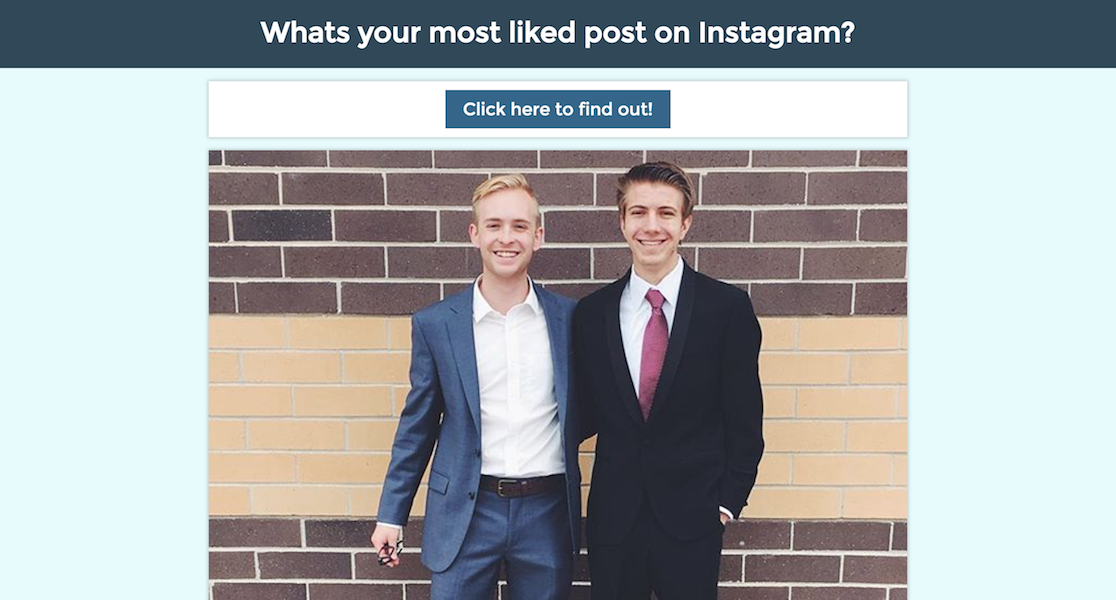
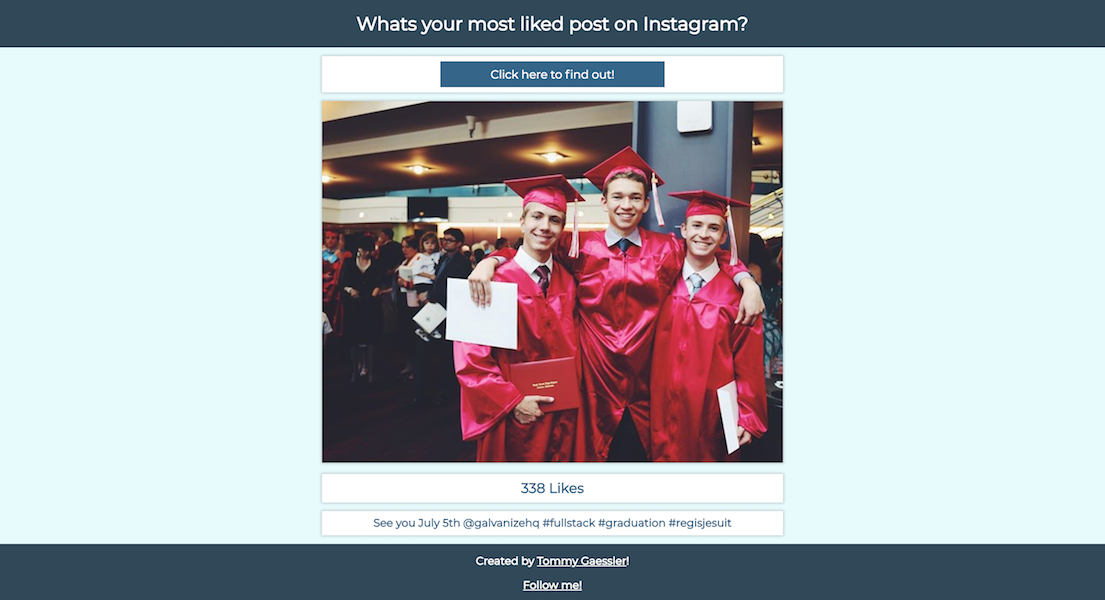
updated trip charge screenshots and added most liked

diff --git a/src/app/app.component.html b/src/app/app.component.html
@@ -12,8 +12,8 @@
     <div class="collapse navbar-collapse" id="navbar-collapse-1">
       <ul class="nav navbar-nav navbar-right">
         <li><a routerLink="/" routerLinkActive="active">Home</a></li>
-        <li><a href="https://medium.com/@tommygaessler" routerLinkActive="active" target="_blank">Blog</a></li>
         <li><a routerLink="/projects" routerLinkActive="active">Projects</a></li>
+        <li><a href="https://medium.com/@tommygaessler" routerLinkActive="active" target="_blank">Blog</a></li>
         <li><a routerLink="/contact" routerLinkActive="active">Contact</a></li>
       </ul>
     </div>
@@ -29,8 +29,8 @@
   <hr>
   <nav class="page-links">
     <a routerLink="/" routerLinkActive="active">Home</a>
-    <a href="https://medium.com/@tommygaessler" routerLinkActive="active" target="_blank">Blog</a>
     <a routerLink="/projects" routerLinkActive="active">Projects</a>
+    <a href="https://medium.com/@tommygaessler" routerLinkActive="active" target="_blank">Blog</a>
     <a routerLink="/contact" routerLinkActive="active">Contact</a>
   </nav>
   <hr>

diff --git a/src/assets/projects/projects.ts b/src/assets/projects/projects.ts
@@ -40,8 +40,17 @@ export var projects:Object = {
     image: 'assets/images/projects/seniorcapstone.png',
     description: 'Senior capstone project reflecting my life at Regis Jesuit High School.',
     languages: 'php / jQuery / HTML / Sass',
-    deployed: 'https://seniorcapstone.herokuapp.com/',
+    deployed: 'http://capstone.tommygaessler.com/',
     github: 'https://github.com/tommygaessler/regis-jesuit-senior-capstone',
+    type: 'web'
+  },
+  most_liked: {
+    name: 'Most Liked',
+    image: 'assets/images/projects/mostliked.png',
+    description: 'Displays your most liked post on Instagram.',
+    languages: 'jQuery / HTML / CSS',
+    deployed: 'http://tommygaessler.com/mostliked/',
+    github: 'https://github.com/tommygaessler/mostliked',
     type: 'web'
   },
   kids247: {
